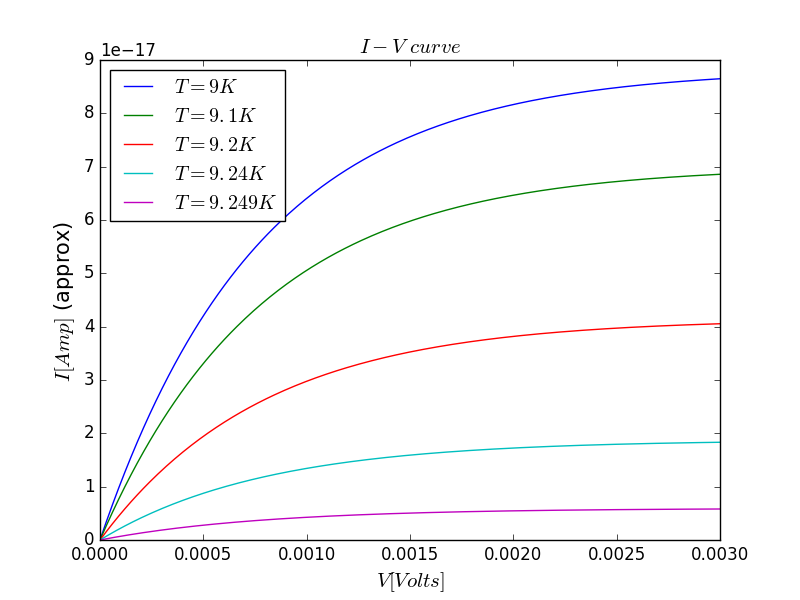
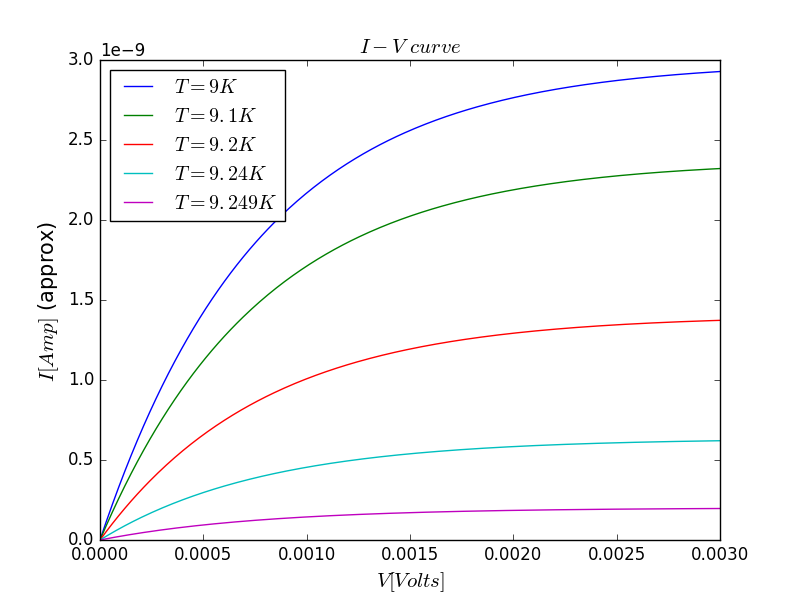
g has been adjusted

diff --git a/Current/I_vs_T.py b/Current/I_vs_T.py
@@ -14,7 +14,7 @@ h=2*np.pi*hbar # eV*Angstrom
 hs=6.5E-16 # eV s
 kb=8.6E-5# eV/Kelvin/e
 Tc=9.25 #Kelvin
-g=1E-3 #eV/e
+g=(1.0/(92*2000))**2#(m/M)**2
 
 
 
@@ -31,13 +31,13 @@ area=346*375 #microns squared
 conver=1E8#angstroms to microns
 
 
-EV=[0.0005,0.001,0.002,0.003]#(-50E15,10E15,1000)*2*e#applied potential in eV
+EV=[0.0005,0.001,0.003,0.005]#(-50E15,10E15,1000)*2*e#applied potential in eV
 
 #V=EV*(1/(2*e)) #Applied potential in V
 
 T=np.linspace(0.1,1.0,10000)
 J2=np.zeros(len(T))
-g=1E-3
+
 
 eta=kb*T[0]*np.log(3) #groundstate taken at 1/2 of Bose-Einsteins distribution
 mu=eta#chemical potential, no particles are added

diff --git a/Current/current.py b/Current/current.py
@@ -20,15 +20,16 @@ kb=8.6E-5# eV/Kelvin/e
 T=[1,2,4,5]#9.2#4 Kelvin
 Tc=9.25 #Kelvin
 
-g=1E-3 #eV/e
+g=(1.0/(92*2000))**2#(m/M)**2
 
 
 
 print("dx=",dx, "Angstroms")
-print("Deltao=",Do, "eV")
+print("Delta_o=",Do, "eV")
 print("m=",m,"eV")
 print("hbar=",hbar,"eV*Angstrom")
 print("e=",e,"Coulomb")
+print("g=",g,"Coupling constant")
 
 A=4*np.pi*np.sqrt(4*m)*dx/h #constante definida
 
@@ -124,7 +125,7 @@ for j in range(len(T)):
     
     DeltaT=DeT(T[j])#3.07*kb*Tc*np.sqrt(1-T[j]/Tc)
     
-    N=DeltaT/(2*g) #+0.5#
+    N=DeltaT/(2.0*g) #+0.5#
     print("N=",N)
     
     for i in range(len(EV)):
